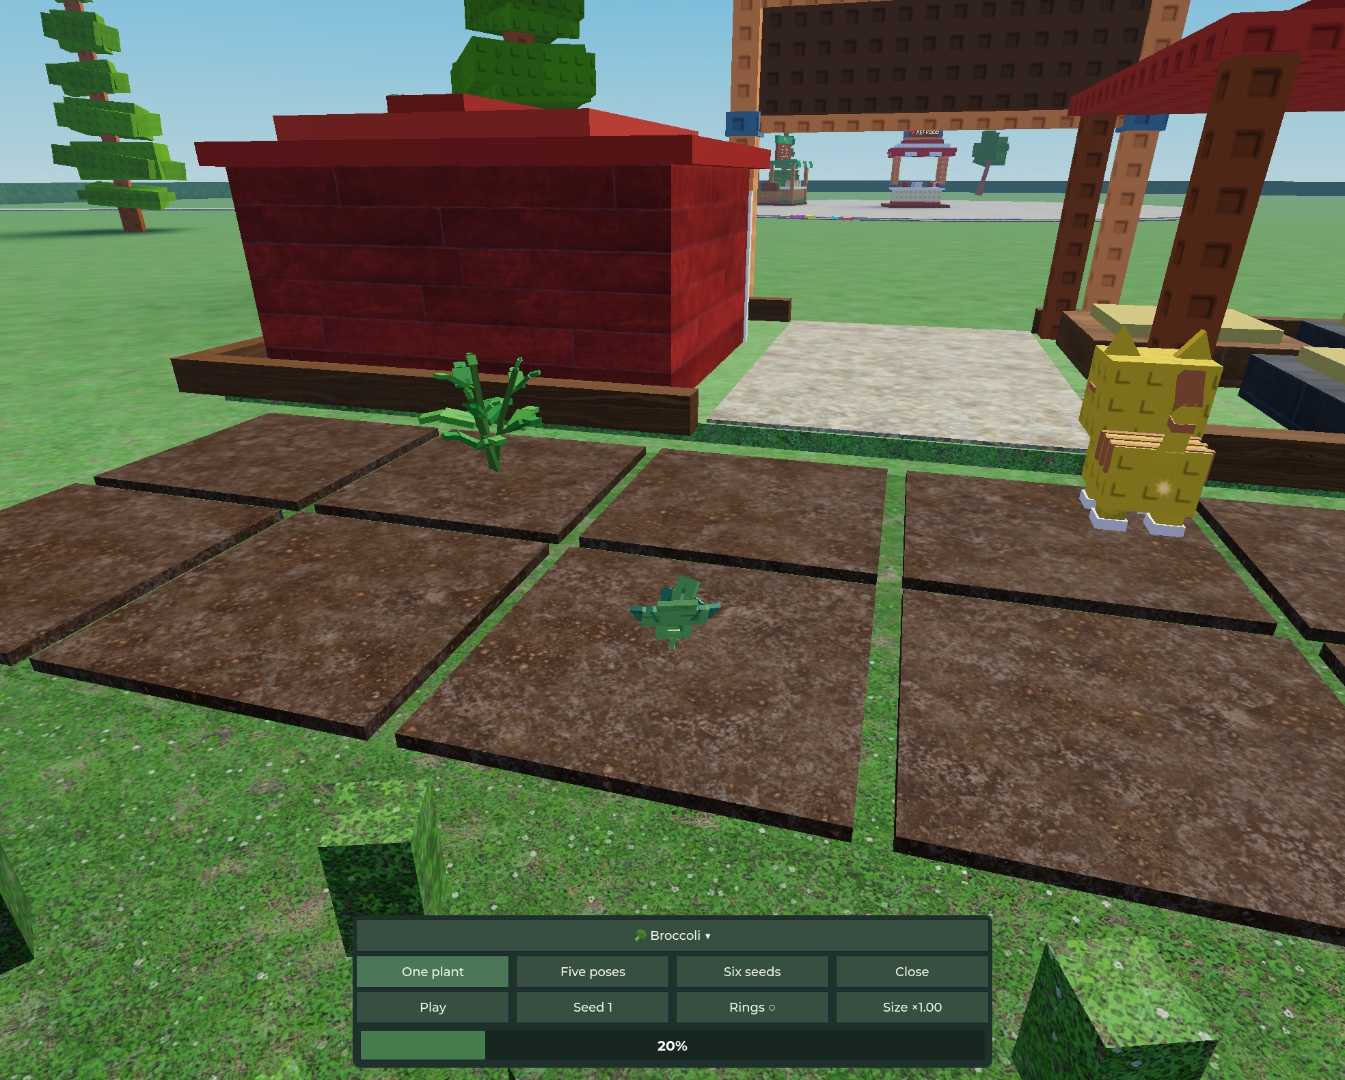
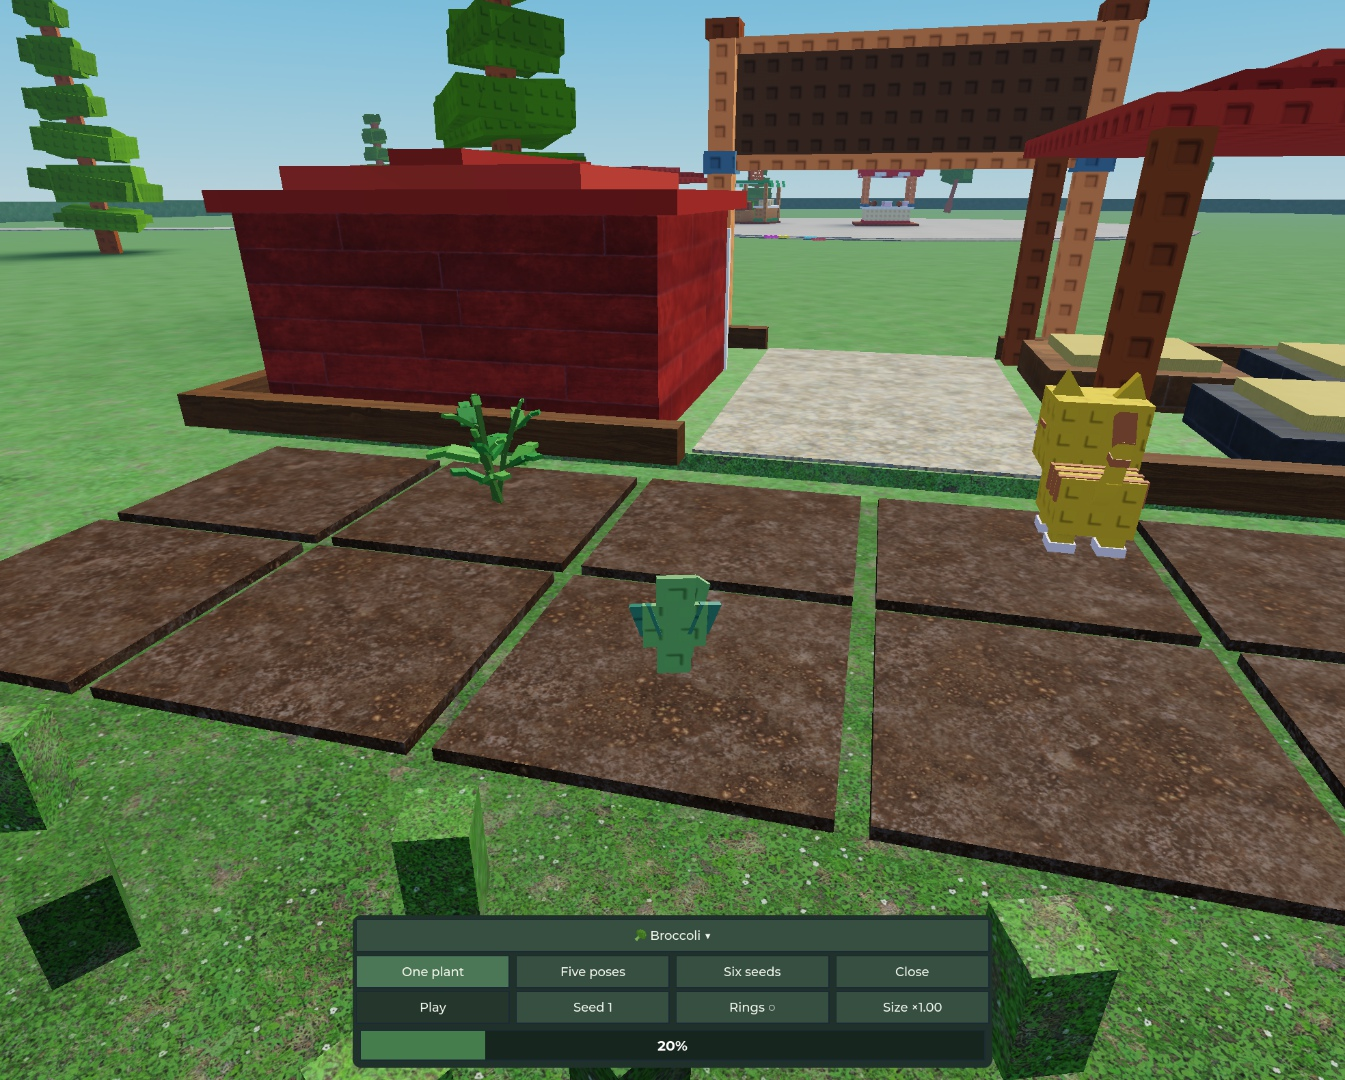
Lengthen broccoli leaves around the crown

diff --git a/docs/plants/BROCCOLI.md b/docs/plants/BROCCOLI.md
@@ -7,10 +7,17 @@
 The two references supplied by Ales (2026-11-11), [life cycle](../art/broccoli/reference-life-cycle.png) and
 [mature crown](../art/broccoli/reference-crown.png), establish a leafy seedling, a broad blue-green vegetative plant and a late,
 dense green crown on a thick pale stalk. The game silhouette uses one central domed head, with seven tightly joined floret
-clusters, six broad lobed leaves and visible branching beneath the head. Keep the crown above the foliage, with no tree-like
+clusters, six long lobed leaves and visible branching beneath the head. Nest the crown within foliage that rises around it, with no tree-like
 bare trunk. Roots remain underground. Ordinary matte stud-block Parts match the existing field art.
 
-Standard mature height is **3.55 studs**, below the measured **5.40-stud avatar** on the same ground plane; the ground-radius limit is 2.4 studs at every growth age
+Ales's [uncut-leaf proportion reference](../art/broccoli/reference-long-leaves.png) (2026-11-11) corrects the first recipe's
+short foliage: use much longer blades, with lower leaves spreading and upper leaves rising around and above the head.
+Some leaves in the photo were removed to expose the head; the game plant keeps its foliage. Maintain the field-square
+clearance by making the long leaves more upright, with a gentle joined bend, rather than shortening the blades.
+
+Blades are **2.9–3.2 studs long** at standard seed/mass, **1.6–2.1×** their first-recipe lengths, with approximately **0.61-stud**
+petioles extending outward from lower attachment points. Upper leaves reach above the head while gaps reveal its green florets.
+Standard mature height is **4.01 studs**, below the measured **5.40-stud avatar**; the ground-radius limit is 2.4 studs at every growth age
 and supported mass. Harvested mass changes crown dimensions by the shared cube-root scale; foliage grows more conservatively.
 Seed variation changes leaf lengths, angles, stalk lean and crown proportions; seed 1 is the authored baseline.
 
@@ -19,8 +26,8 @@ Seed variation changes leaf lengths, angles, stalk lean and crown proportions; s
 | 0% | Tiny stalk and paired seed leaves; no exposed seed, roots or crown. |
 | 20% | Two emerging broad true leaves above the seed leaves. |
 | 50% | Established layered foliage; the first tight central green bud appears. |
-| 75% | Thickening stalk and widening, branching crown above the leaves. |
-| 100% | Dense dark-green domed crown with smaller raised bud blocks; blue-green lobed leaves and pale ribs remain below it. |
+| 75% | Thickening stalk and widening, branching crown framed by long leaves. |
+| 100% | Dense dark-green domed crown with smaller raised bud blocks; long blue-green lobed leaves rise around and partly above it. |
 
 Leaves extend from attached petioles and unfold at connected sections. The late crown expands from the stalk's current tip;
 each branch and its floret cluster move together. Closed green florets are the ripe cue; no yellow flowers or glowing effects.
@@ -33,7 +40,7 @@ art, without separate collectible fruit slots, profile fields, remotes or econom
 (one stalk, two seed leaves, six seven-Part true leaves and seven nine-Part floret groups). A full 36-square field would use
 **3,888 plant Parts**, excluding soil, pets and UI. Direct-built mid proxies use **11 / 27 / 27 Parts** for young/growing/ripe,
 keeping three broad leaves, the stalk and seven connected crown lobes. Roles are `Structure`, `Foliage` and `Crown`.
-Ring height is fixed at **4.5 studs**; review framing is **4.0**. There is no extra harvest effect.
+Ring height is fixed at **5.6 studs**; review framing is **5.2**. There is no extra harvest effect.
 
 [Five-pose sheet](../art/broccoli/growth-review.png) · [0%](../art/broccoli/growth-0.jpg) ·
 [20%](../art/broccoli/growth-20.jpg) · [50%](../art/broccoli/growth-50.jpg) ·
@@ -45,10 +52,11 @@ camera, with the real soil, comparison Potato and field pet. The sheet crops the
 Rings and selection were checked together; the five stills hide them for the plant review.
 
 [`broccoli_growth_checks.luau`](../../tools/broccoli_growth_checks.luau) passed on 2026-11-11 for **six seeds × three harvested
-mass factors (0.35656 / 1 / 3.02985) × 101 ages**. Maximum checked ground radius was **2.321 studs**. The standard crown is
-**2.313 studs wide × 1.173 high**; ripe total height across the checked seeds and masses was **2.976–4.401 studs**. Leaf petioles
+mass factors (0.35656 / 1 / 3.02985) × 101 ages**, rerun after the long-leaf revision. Maximum checked ground radius was **2.071 studs**. The standard crown is
+**2.313 studs wide × 1.173 high**; ripe total height across the checked seeds and masses was **3.563–4.767 studs**. Leaf petioles
 and blade joints, stalk/branch/floret/bud attachments, paired initial seed leaves, late crown emergence, distinct seeds, retained
-Part identity, exact visible backward seeks and non-colliding/non-touching/non-queryable flags pass. Proxies also fit the radius.
+Part identity, exact visible backward seeks and non-colliding/non-touching/non-queryable flags pass. All six mature blades exceed
+2.35 studs even at the checked minimum mass. Proxies also fit the radius. Larger-mass foliage stands more upright to retain clearance.
 
 The recipe is registered in `PlantGrowth`. [`broccoli_integration_checks.luau`](../../tools/broccoli_integration_checks.luau)
 passed through production `PlotView` using disposable public-feed fixtures: three age/mass samples contain **324 full-detail

diff --git a/docs/LAYOUT.md b/docs/LAYOUT.md
@@ -40,7 +40,7 @@ src/
     CornPlant.luau                    CG6b/c registered recipe: 99 Parts on the selected taller B stalk, unfolding ribbon leaves, two husked ears with explicit fruit slots, crown tassel. Shared seed parameters for 5/9/14-Part mid proxies. Fixed ring height 10.8 studs. Reviewed through PlantGrowthReview.
     LettucePlant.luau                 CG7 registered recipe: 70 Parts on the selected crisp head (three leaf rings unfolding outward-in, frilled outer tips, a swelling two-piece head). Canopy fit to the 2.4-stud radius; 2/9/14-Part mid proxies; ring height 2.3 studs. Reviewed through PlantGrowthReview.
     GarlicPlant.luau                  CG12 registered recipe: 54 Parts for a half-buried ivory head, alternating flat leaves and a connected curled scape with a pointed spathe. Direct-built 9/14/26-Part mid proxies; fixed 5.5-stud ring height. Reviewed through PlantGrowthReview.
-    BroccoliPlant.luau                CG14 registered recipe: 108 Parts for six lobed blue-green leaves, a thick pale stalk and a late seven-cluster domed floret crown. Direct-built 11/27/27-Part mid proxies; fixed 4.5-stud ring height. Reviewed through PlantGrowthReview.
+    BroccoliPlant.luau                CG14 registered recipe: 108 Parts for six long lobed blue-green leaves framing a late seven-cluster domed floret crown on a thick pale stalk. Direct-built 11/27/27-Part mid proxies; fixed 5.6-stud ring height. Reviewed through PlantGrowthReview.
     PepperPlant.luau                  CG8 registered recipe: 84 Parts on a free-standing bush; unfolding pointed leaves, white blossoms and three curved, tapered red chillies with wedge tips and explicit fruit slots. Direct-built 5/31/31-Part mid proxies; mass-scaled ring height 4.4 studs. Reviewed through PlantGrowthReview.
   ServerScriptService/
     PlayerProfile.luau                per-player profile DataStore (load/migrate/save), AddCoins, CoinsChanged; OnLeaving(fn) callbacks run once per player before the leave save (also from BindToClose); IsNew (no record and no legacy data)

diff --git a/docs/ROADMAP.md b/docs/ROADMAP.md
@@ -139,8 +139,9 @@ player has the crop field, so the rest of the garden MVP (EXPANSION §14) is bui
   performance, real phone and second client remain open.
 
 - **CG14:** [Broccoli](plants/BROCCOLI.md) (2 h) uses Ales's life-cycle and mature-crown references (2026-11-11): six lobed
-  blue-green leaves, a thick pale stalk and a late seven-cluster green dome. Registered recipe: 108 Parts, mid proxies 11 / 27 / 27;
-  Studio geometry (six seeds × three masses × 101 ages, 2.32-stud maximum radius, exact seeks) and production PlotView lifecycle,
+  blue-green leaves, a thick pale stalk and a late seven-cluster green dome. Revised from Ales's third reference: much longer
+  2.9–3.2-stud blades frame and rise above the head; 4.01-stud standard height. Registered recipe: 108 Parts, mid proxies 11 / 27 / 27;
+  Studio geometry (six seeds × three masses × 101 ages, 2.08-stud maximum radius, exact seeks) and production PlotView lifecycle,
   corrections, exact ripeness, detail transitions, soil ray and harvest/replant feed checks pass. [Five stills](art/broccoli/growth-review.png)
   await Ales's art review. CG14d field/24-plot performance, real phone, second client and live validation remain open.
 

diff --git a/docs/GDD.md b/docs/GDD.md
@@ -534,7 +534,8 @@ Garlic uses a half-exposed ivory head, alternating flat blue-green leaves and a 
 The exposed head is an approved readability shortcut (Ales, 2026-11-10). Growth takes three minutes; harvest clears the whole
 plant. Its 54-Part recipe and 9/14/26-Part mid proxies are registered and Studio-checked; phone and second-client checks remain open.
 
-Broccoli establishes six lobed blue-green leaves before its pale stalk branches into a late, dense domed green crown.
+Broccoli establishes six long lobed blue-green leaves before its pale stalk branches into a late, dense domed green crown.
+The blades frame and rise partly above the head; standard mature height is about 4 studs.
 Its 108-Part recipe and 11/27/27-Part mid proxies are registered and Studio-checked. Growth remains two hours and harvest clears
 the whole plant. [Five growth stills and anatomy](plants/BROCCOLI.md); art approval and performance checks remain open.
 
